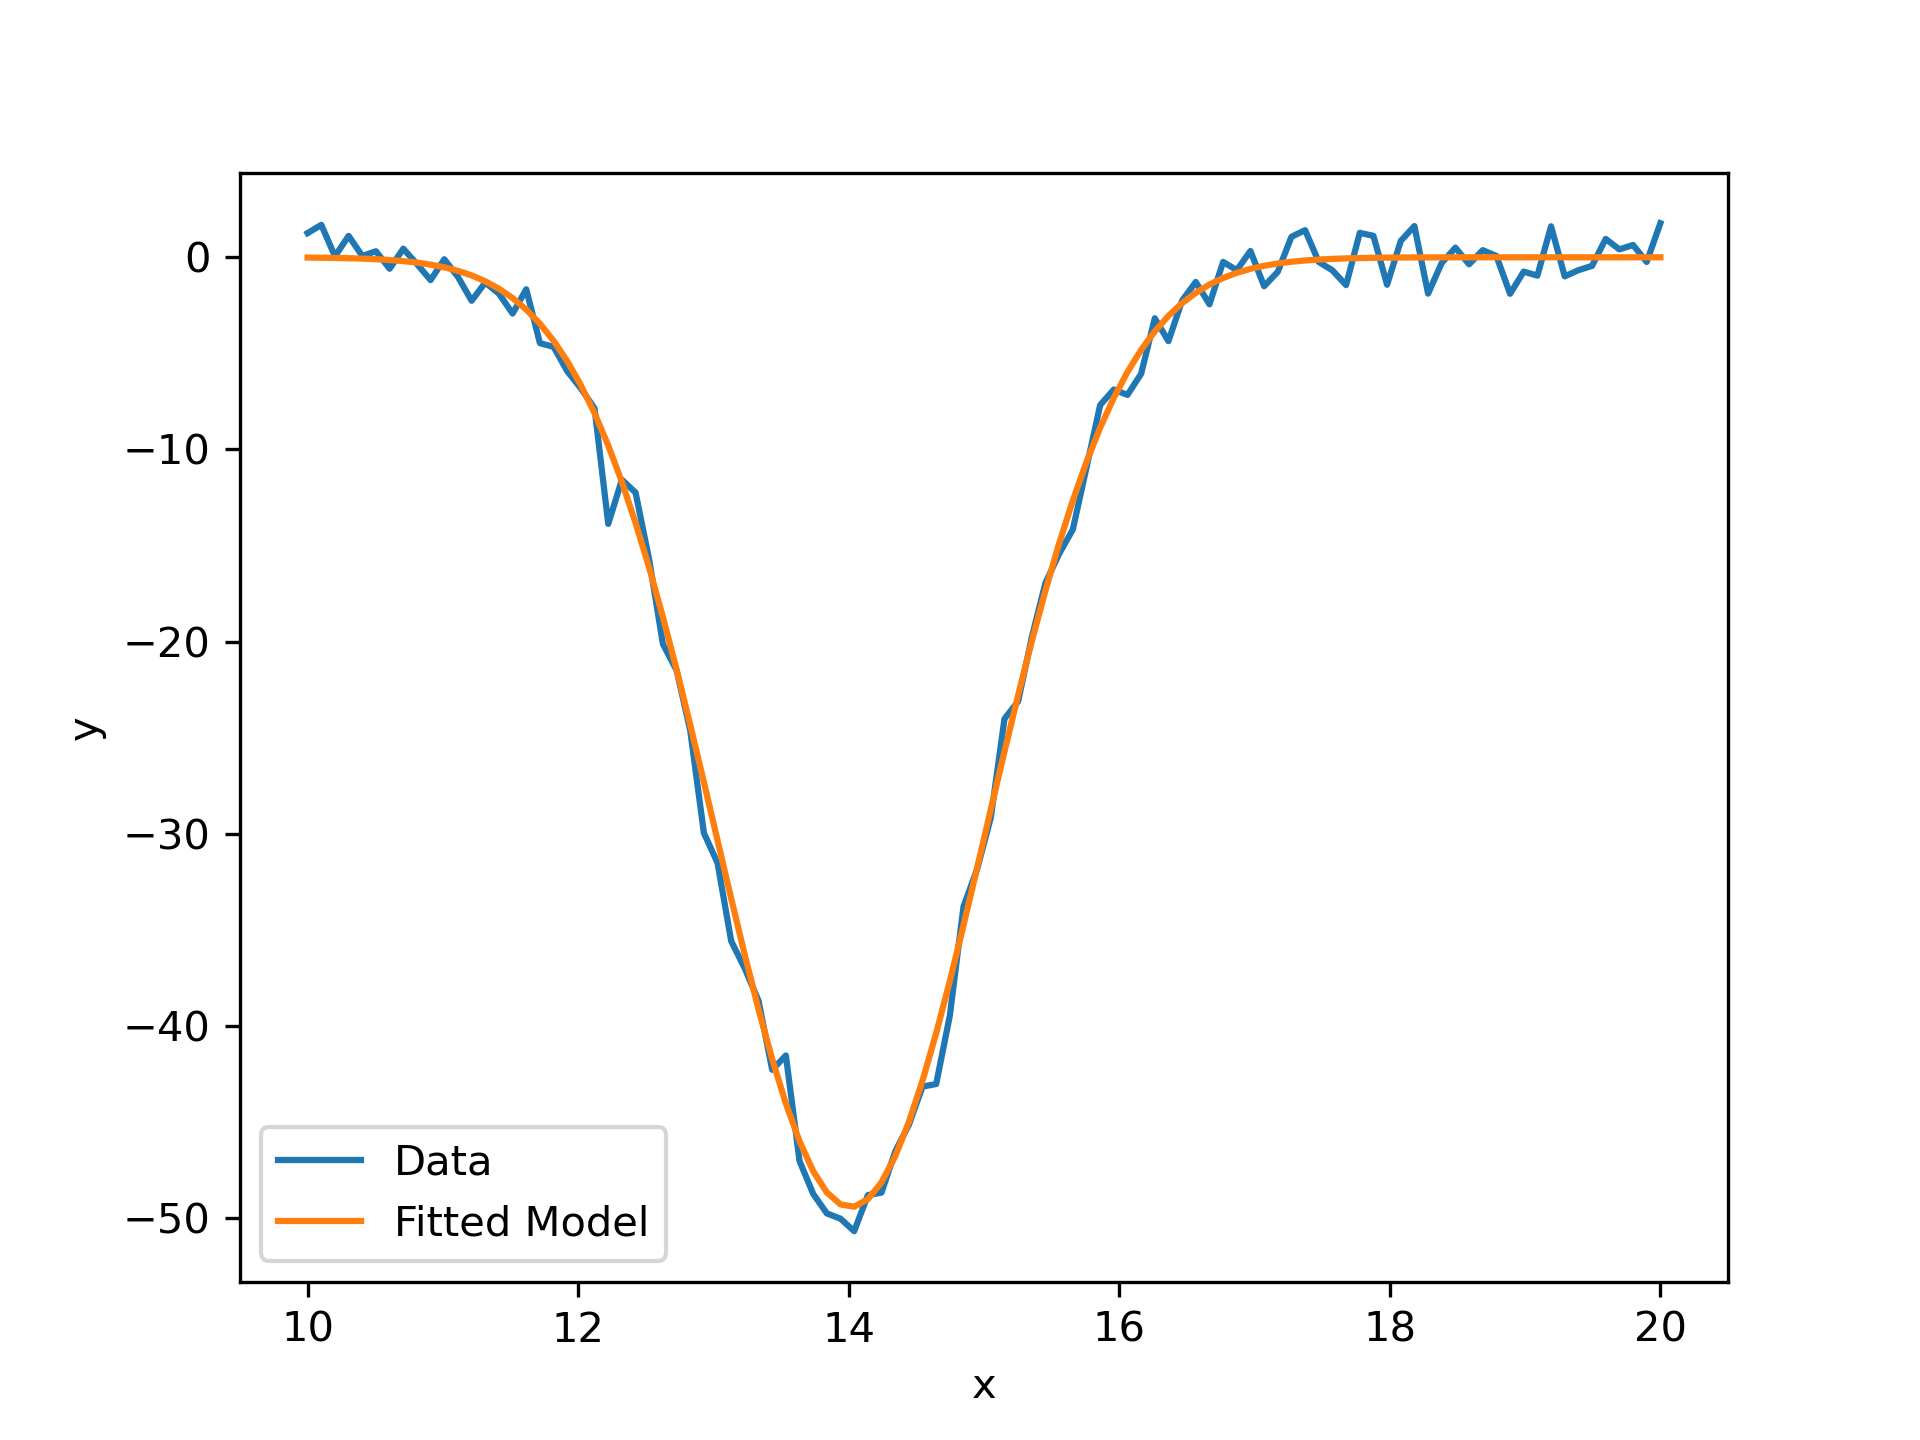
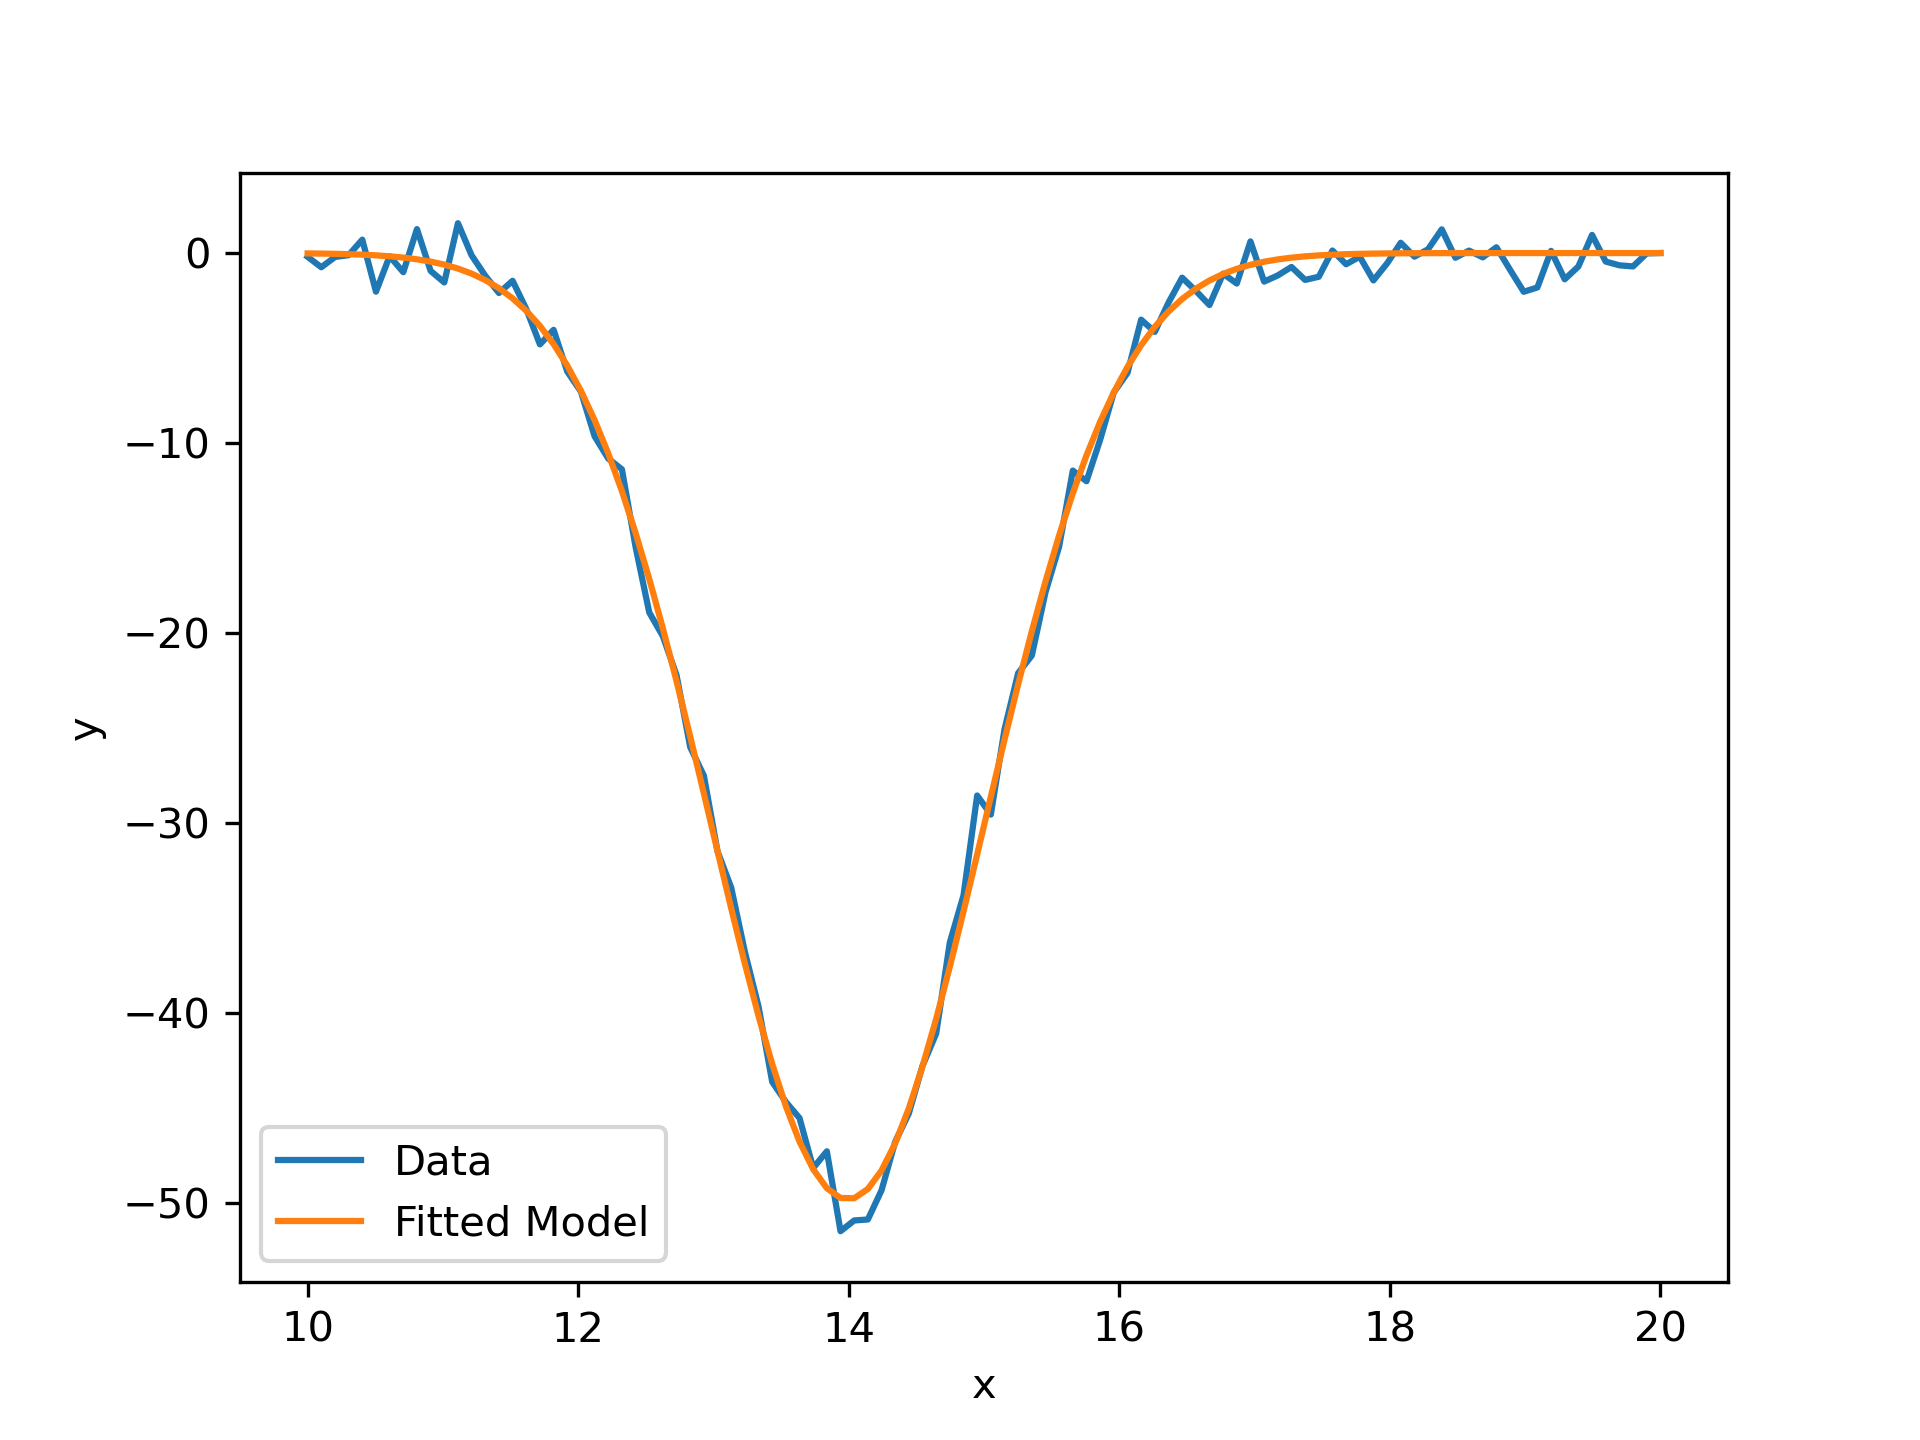
correction to metropolis hastings algorithm

diff --git a/Sampling-Methods/MH/main.py b/Sampling-Methods/MH/main.py
@@ -17,7 +17,7 @@ def fit(likelihood, mins, maxs, niter=1000):
     """
 
     def gaussian_proposal(x):
-        return np.random.normal(x, 1, 3)
+        return np.random.normal(x, 0.1, 3)
 
     x, i = [], 0
     x.append(np.random.uniform(mins, maxs))
@@ -27,8 +27,8 @@ def fit(likelihood, mins, maxs, niter=1000):
         if np.any(x_new < mins) or np.any(x_new > maxs):
             pass
         else:
-            u = np.random.uniform(0, 1)
-            A =  likelihood(x[i])/likelihood(x_new)
+            u = np.log10(np.random.uniform(0, 1))
+            A =  likelihood(x_new) - likelihood(x[i])
             if u <= A:
                 x.append(x_new)
                 i += 1
@@ -53,7 +53,7 @@ data = A*np.exp(-(x-mu)**2/(2*sigma**2)) + experiment_noise
 mins = np.array([-100, 12, 0])
 maxs = np.array([-30, 18, 2])
 
-points = fit(likelihood, mins, maxs, niter=100000)
+points = fit(likelihood, mins, maxs, niter=1000)
 
 likes = np.array([likelihood(points[i]) for i in range(len(points))])
 max_arg = np.where(likes == likes.max())[0][0]
